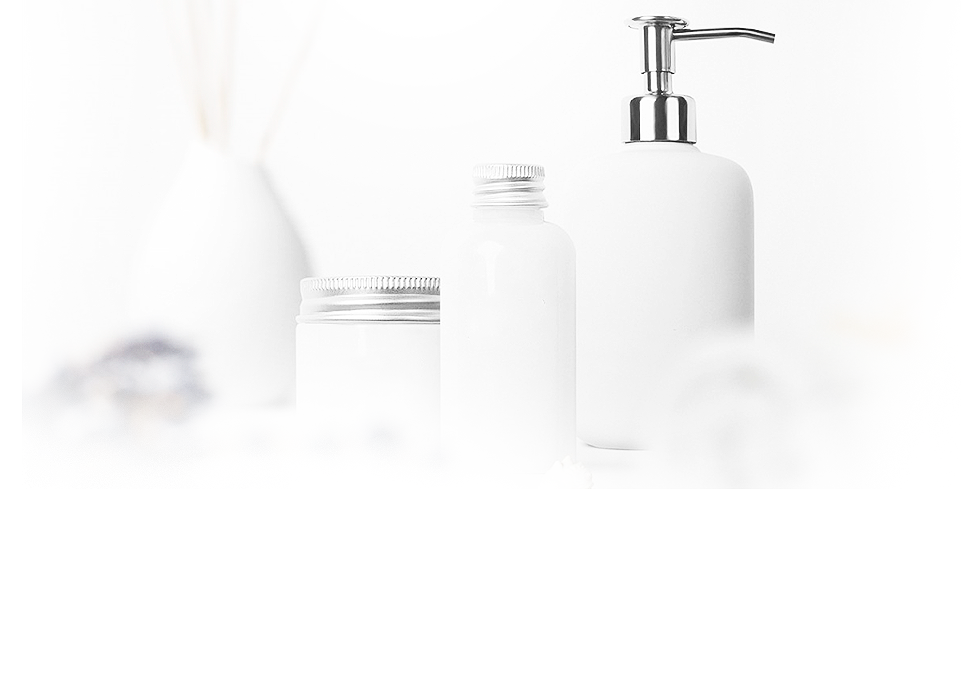
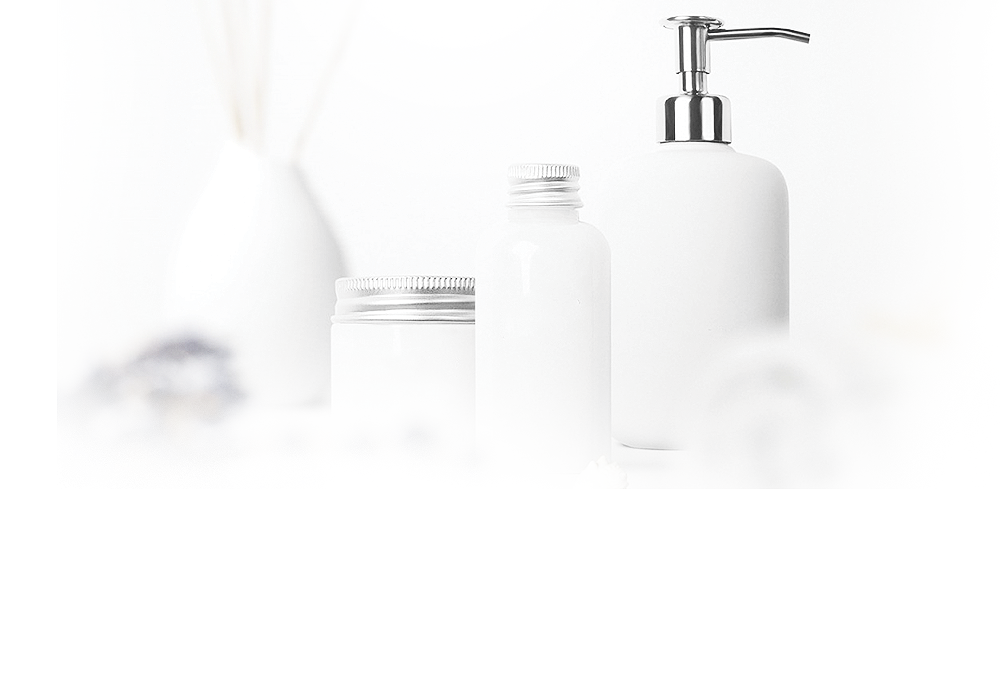
8

diff --git a/css/style5.scss b/css/style5.scss
@@ -231,9 +231,9 @@
 	color:#161616;font-family: "OpenSans-Regular";
 	}
 }
-.df-bg{
-	background: url(/img/df-bg-cosmetic.png) no-repeat top left 300px;     //<<<<<<bg-image, class - body
-}
+// .df-bg{
+// 	background: url(/img/df-bg-cosmetic2.png) no-repeat top left 300px;     //<<<<<<bg-image, class - body
+// }
 
 
 @media only screen and (min-width : 320px) {

diff --git a/css/style5.css b/css/style5.css
@@ -190,9 +190,6 @@
     color: #161616;
     font-family: "OpenSans-Regular"; }
 
-.df-bg {
-  background: url(/img/df-bg-cosmetic.png) no-repeat top left 300px; }
-
 @media only screen and (min-width: 480px) {
   .df-contacts .df-box1 {
     width: 50%;
